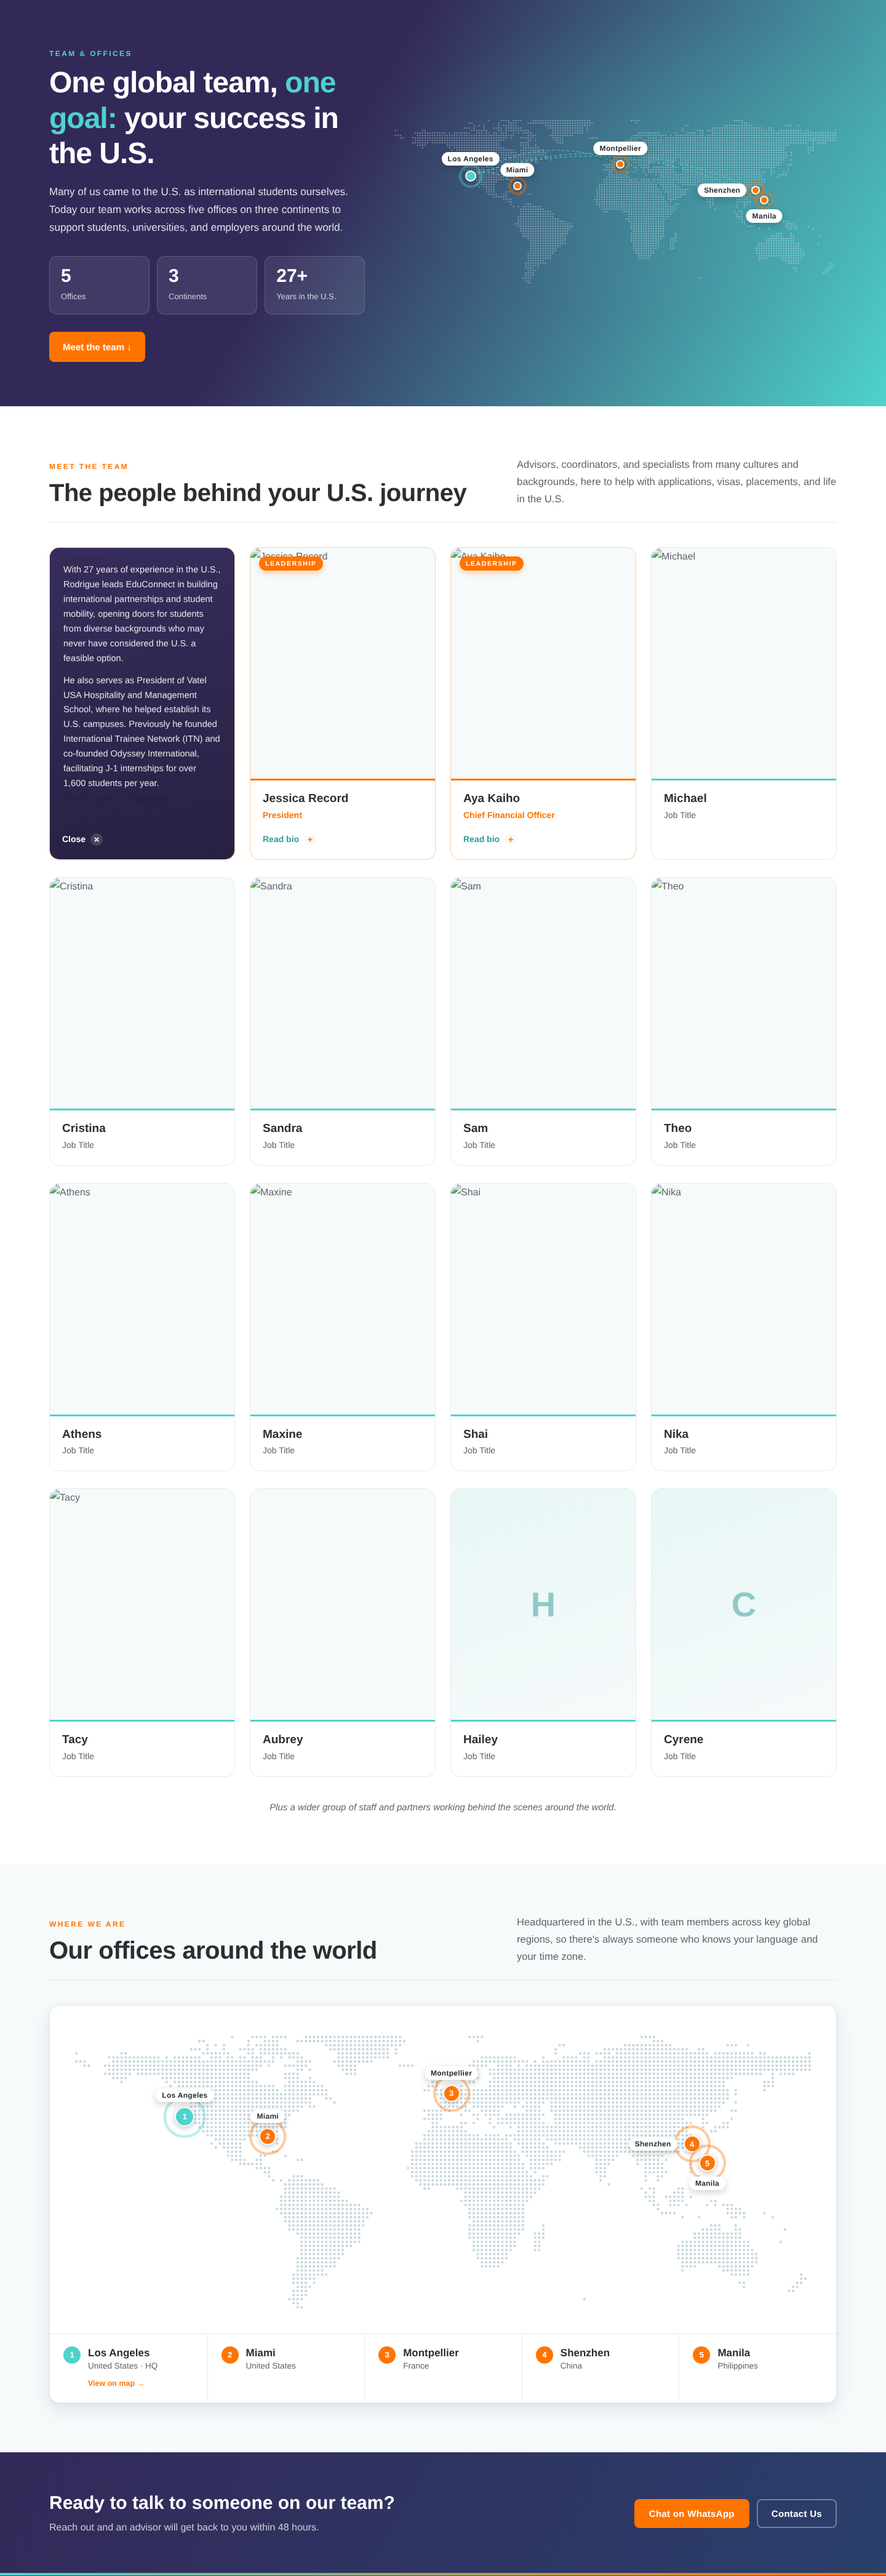
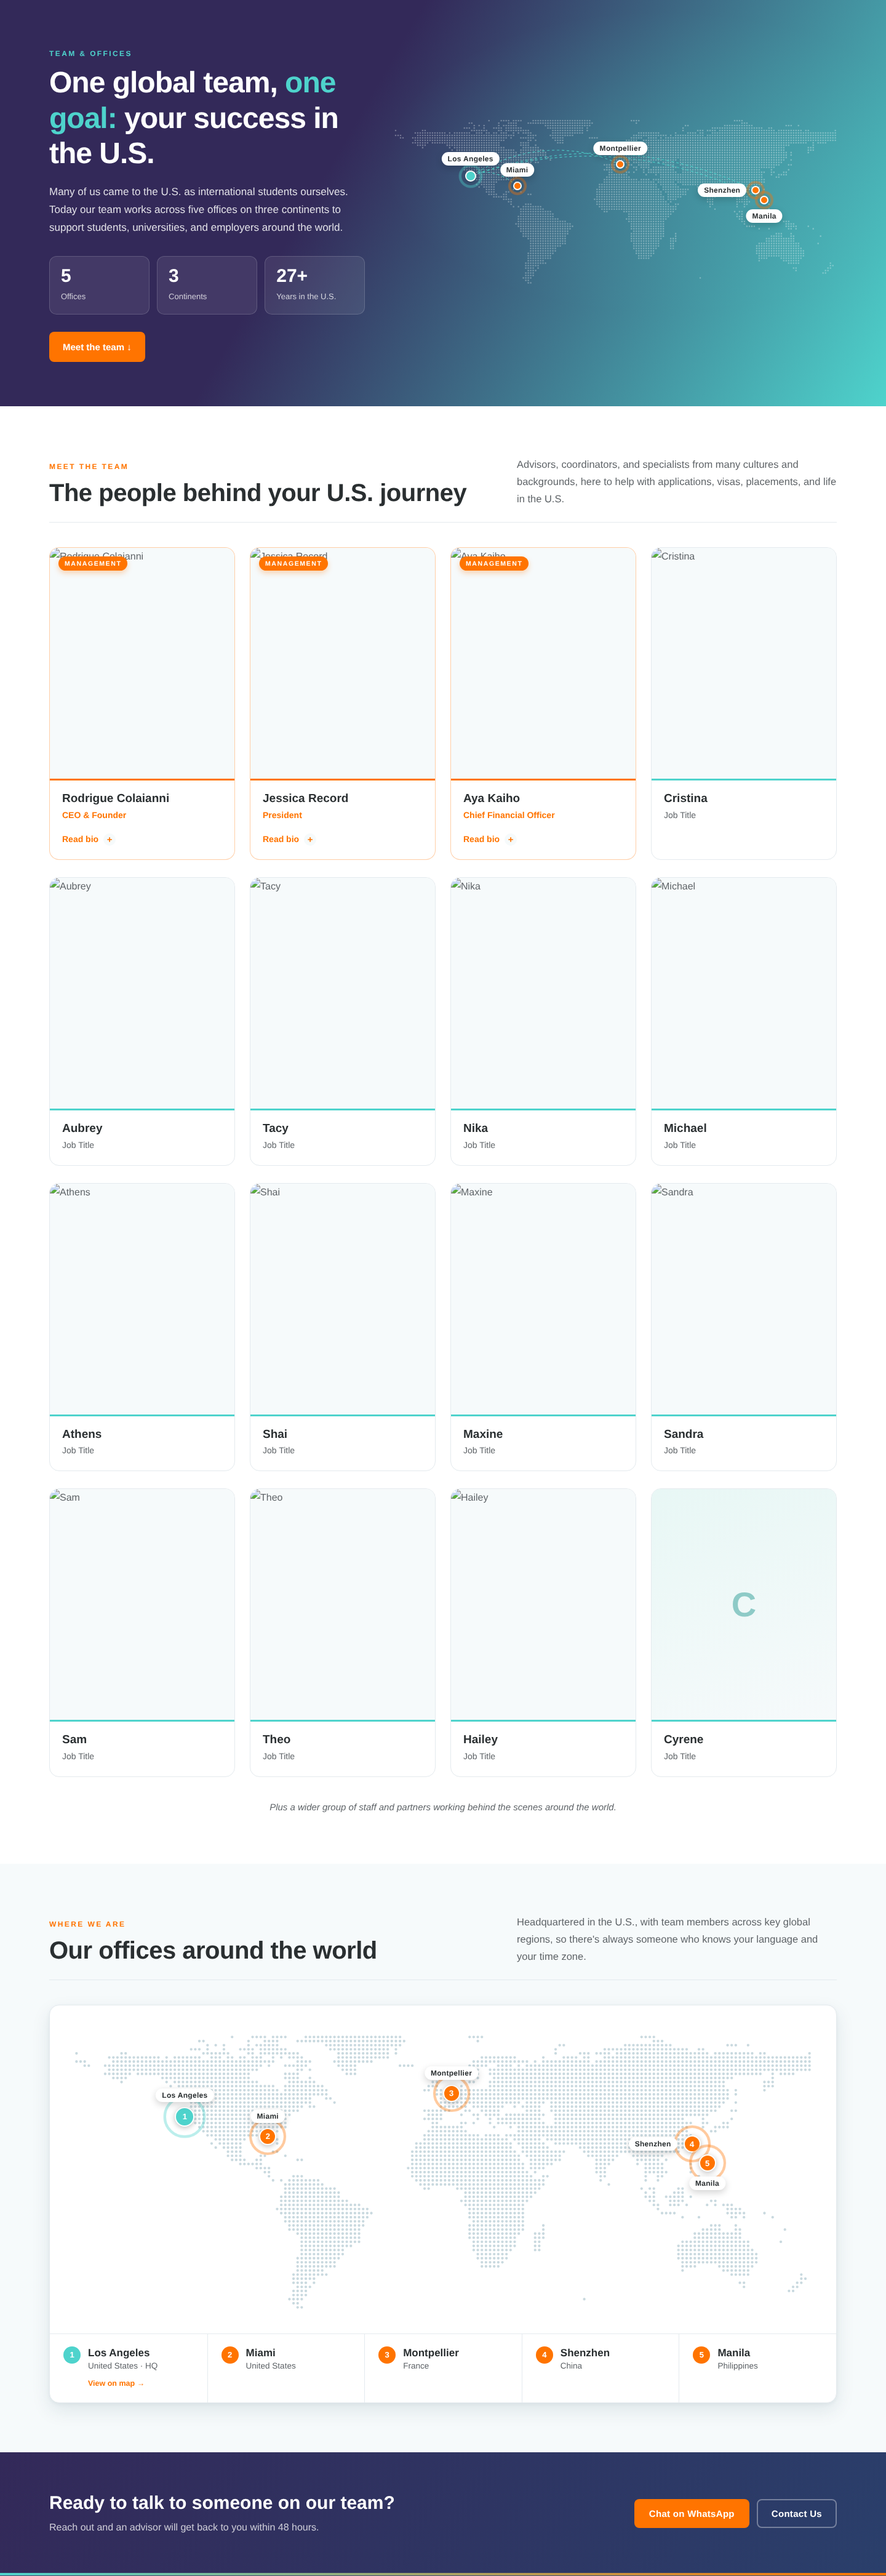
Team page: named photos, new order, Management badge, orange bio button
Claude-Session: https://claude.ai/code/session_01GZPWVdRv6C6DeJS94qZjdM

Changed region(s): [[0.0312, 0.1864, 0.2812, 0.3417], [0.75, 0.4349, 0.7812, 0.4659], [0.5938, 0.6213, 0.625, 0.6523]]

diff --git a/about-team/team-page.html b/about-team/team-page.html
@@ -9,7 +9,7 @@
 
      TO EDIT
        • Job titles: search for  EDIT TITLE  and replace "Job Title".
-       • Hailey & Cyrene photos: search for  ADD PHOTO  and swap the
+       • Cyrene photo: search for  ADD PHOTO  and swap the
          initials block for the <img> line shown in the comment.
        • Add a person: copy one <li class="ect-card"> block.
 ============================================================ -->
@@ -80,11 +80,10 @@
 
       <ul class="ect-grid">
 
-        <!-- ---------- Leadership (badge + bio) ---------- -->
         <li class="ect-card ect-card--lead">
           <div class="ect-card__photo">
-            <img loading="lazy" decoding="async" width="600" height="750" src="https://educonnectusa.com/wp-content/uploads/2026/10/2.jpg" alt="Rodrigue Colaianni" />
-            <span class="ect-badge">Leadership</span>
+            <img loading="lazy" decoding="async" width="600" height="750" src="https://educonnectusa.com/wp-content/uploads/2026/10/Rodrigue.jpg" alt="Rodrigue Colaianni" />
+            <span class="ect-badge">Management</span>
           </div>
           <div class="ect-card__body">
             <h3 class="ect-card__name">Rodrigue Colaianni</h3>
@@ -98,11 +97,10 @@
             </details>
           </div>
         </li>
-
         <li class="ect-card ect-card--lead">
           <div class="ect-card__photo">
-            <img loading="lazy" decoding="async" width="600" height="750" src="https://educonnectusa.com/wp-content/uploads/2026/10/1.jpg" alt="Jessica Record" />
-            <span class="ect-badge">Leadership</span>
+            <img loading="lazy" decoding="async" width="600" height="750" src="https://educonnectusa.com/wp-content/uploads/2026/10/Jessica.jpg" alt="Jessica Record" />
+            <span class="ect-badge">Management</span>
           </div>
           <div class="ect-card__body">
             <h3 class="ect-card__name">Jessica Record</h3>
@@ -116,11 +114,10 @@
             </details>
           </div>
         </li>
-
         <li class="ect-card ect-card--lead">
           <div class="ect-card__photo">
-            <img loading="lazy" decoding="async" width="600" height="750" src="https://educonnectusa.com/wp-content/uploads/2026/10/3.jpg" alt="Aya Kaiho" />
-            <span class="ect-badge">Leadership</span>
+            <img loading="lazy" decoding="async" width="600" height="750" src="https://educonnectusa.com/wp-content/uploads/2026/10/Aya.jpg" alt="Aya Kaiho" />
+            <span class="ect-badge">Management</span>
           </div>
           <div class="ect-card__body">
             <h3 class="ect-card__name">Aya Kaiho</h3>
@@ -134,89 +131,85 @@
             </details>
           </div>
         </li>
-
-        <!-- ---------- Team ---------- -->
         <li class="ect-card">
-          <div class="ect-card__photo"><img loading="lazy" decoding="async" width="600" height="750" src="https://educonnectusa.com/wp-content/uploads/2026/10/4.jpg" alt="Michael" /></div>
-          <div class="ect-card__body">
-            <h3 class="ect-card__name">Michael</h3>
-            <p class="ect-card__role">Job Title<!-- EDIT TITLE --></p>
-          </div>
-        </li>
-        <li class="ect-card">
-          <div class="ect-card__photo"><img loading="lazy" decoding="async" width="600" height="750" src="https://educonnectusa.com/wp-content/uploads/2026/10/5.jpg" alt="Cristina" /></div>
+          <div class="ect-card__photo"><img loading="lazy" decoding="async" width="600" height="750" src="https://educonnectusa.com/wp-content/uploads/2026/10/Cristina.jpg" alt="Cristina" /></div>
           <div class="ect-card__body">
             <h3 class="ect-card__name">Cristina</h3>
             <p class="ect-card__role">Job Title<!-- EDIT TITLE --></p>
           </div>
         </li>
         <li class="ect-card">
-          <div class="ect-card__photo"><img loading="lazy" decoding="async" width="600" height="750" src="https://educonnectusa.com/wp-content/uploads/2026/10/6.jpg" alt="Sandra" /></div>
-          <div class="ect-card__body">
-            <h3 class="ect-card__name">Sandra</h3>
-            <p class="ect-card__role">Job Title<!-- EDIT TITLE --></p>
-          </div>
-        </li>
-        <li class="ect-card">
-          <div class="ect-card__photo"><img loading="lazy" decoding="async" width="600" height="750" src="https://educonnectusa.com/wp-content/uploads/2026/10/7.jpg" alt="Sam" /></div>
-          <div class="ect-card__body">
-            <h3 class="ect-card__name">Sam</h3>
-            <p class="ect-card__role">Job Title<!-- EDIT TITLE --></p>
-          </div>
-        </li>
-        <li class="ect-card">
-          <div class="ect-card__photo"><img loading="lazy" decoding="async" width="600" height="750" src="https://educonnectusa.com/wp-content/uploads/2026/10/8.jpg" alt="Theo" /></div>
-          <div class="ect-card__body">
-            <h3 class="ect-card__name">Theo</h3>
-            <p class="ect-card__role">Job Title<!-- EDIT TITLE --></p>
-          </div>
-        </li>
-        <li class="ect-card">
-          <div class="ect-card__photo"><img loading="lazy" decoding="async" width="600" height="750" src="https://educonnectusa.com/wp-content/uploads/2026/10/9.jpg" alt="Athens" /></div>
-          <div class="ect-card__body">
-            <h3 class="ect-card__name">Athens</h3>
-            <p class="ect-card__role">Job Title<!-- EDIT TITLE --></p>
-          </div>
-        </li>
-        <li class="ect-card">
-          <div class="ect-card__photo"><img loading="lazy" decoding="async" width="600" height="750" src="https://educonnectusa.com/wp-content/uploads/2026/10/10.jpg" alt="Maxine" /></div>
-          <div class="ect-card__body">
-            <h3 class="ect-card__name">Maxine</h3>
-            <p class="ect-card__role">Job Title<!-- EDIT TITLE --></p>
-          </div>
-        </li>
-        <li class="ect-card">
-          <div class="ect-card__photo"><img loading="lazy" decoding="async" width="600" height="750" src="https://educonnectusa.com/wp-content/uploads/2026/10/11.jpg" alt="Shai" /></div>
-          <div class="ect-card__body">
-            <h3 class="ect-card__name">Shai</h3>
-            <p class="ect-card__role">Job Title<!-- EDIT TITLE --></p>
-          </div>
-        </li>
-        <li class="ect-card">
-          <div class="ect-card__photo"><img loading="lazy" decoding="async" width="600" height="750" src="https://educonnectusa.com/wp-content/uploads/2026/10/12.jpg" alt="Nika" /></div>
-          <div class="ect-card__body">
-            <h3 class="ect-card__name">Nika</h3>
-            <p class="ect-card__role">Job Title<!-- EDIT TITLE --></p>
-          </div>
-        </li>
-        <li class="ect-card">
-          <div class="ect-card__photo"><img loading="lazy" decoding="async" width="600" height="750" src="https://educonnectusa.com/wp-content/uploads/2026/10/13.jpg" alt="Tacy" /></div>
-          <div class="ect-card__body">
-            <h3 class="ect-card__name">Tacy</h3>
-            <p class="ect-card__role">Job Title<!-- EDIT TITLE --></p>
-          </div>
-        </li>
-        <li class="ect-card">
-          <div class="ect-card__photo"><img loading="lazy" decoding="async" width="600" height="750" src="https://educonnectusa.com/wp-content/uploads/2026/10/14.jpg" alt="Aubrey" /></div>
+          <div class="ect-card__photo"><img loading="lazy" decoding="async" width="600" height="750" src="https://educonnectusa.com/wp-content/uploads/2026/10/Aubrey.jpg" alt="Aubrey" /></div>
           <div class="ect-card__body">
             <h3 class="ect-card__name">Aubrey</h3>
             <p class="ect-card__role">Job Title<!-- EDIT TITLE --></p>
           </div>
         </li>
         <li class="ect-card">
-          <!-- ADD PHOTO: replace the next line with
-          <div class="ect-card__photo"><img loading="lazy" decoding="async" width="600" height="750" src="PHOTO-URL" alt="Hailey" /></div> -->
-          <div class="ect-card__photo ect-card__photo--pending"><span>H</span></div>
+          <div class="ect-card__photo"><img loading="lazy" decoding="async" width="600" height="750" src="https://educonnectusa.com/wp-content/uploads/2026/10/Tacy.jpg" alt="Tacy" /></div>
+          <div class="ect-card__body">
+            <h3 class="ect-card__name">Tacy</h3>
+            <p class="ect-card__role">Job Title<!-- EDIT TITLE --></p>
+          </div>
+        </li>
+        <li class="ect-card">
+          <div class="ect-card__photo"><img loading="lazy" decoding="async" width="600" height="750" src="https://educonnectusa.com/wp-content/uploads/2026/10/Nika.jpg" alt="Nika" /></div>
+          <div class="ect-card__body">
+            <h3 class="ect-card__name">Nika</h3>
+            <p class="ect-card__role">Job Title<!-- EDIT TITLE --></p>
+          </div>
+        </li>
+        <li class="ect-card">
+          <div class="ect-card__photo"><img loading="lazy" decoding="async" width="600" height="750" src="https://educonnectusa.com/wp-content/uploads/2026/10/Michael.jpg" alt="Michael" /></div>
+          <div class="ect-card__body">
+            <h3 class="ect-card__name">Michael</h3>
+            <p class="ect-card__role">Job Title<!-- EDIT TITLE --></p>
+          </div>
+        </li>
+        <li class="ect-card">
+          <div class="ect-card__photo"><img loading="lazy" decoding="async" width="600" height="750" src="https://educonnectusa.com/wp-content/uploads/2026/10/Athens.jpg" alt="Athens" /></div>
+          <div class="ect-card__body">
+            <h3 class="ect-card__name">Athens</h3>
+            <p class="ect-card__role">Job Title<!-- EDIT TITLE --></p>
+          </div>
+        </li>
+        <li class="ect-card">
+          <div class="ect-card__photo"><img loading="lazy" decoding="async" width="600" height="750" src="https://educonnectusa.com/wp-content/uploads/2026/10/Shai.jpg" alt="Shai" /></div>
+          <div class="ect-card__body">
+            <h3 class="ect-card__name">Shai</h3>
+            <p class="ect-card__role">Job Title<!-- EDIT TITLE --></p>
+          </div>
+        </li>
+        <li class="ect-card">
+          <div class="ect-card__photo"><img loading="lazy" decoding="async" width="600" height="750" src="https://educonnectusa.com/wp-content/uploads/2026/10/Maxine.jpg" alt="Maxine" /></div>
+          <div class="ect-card__body">
+            <h3 class="ect-card__name">Maxine</h3>
+            <p class="ect-card__role">Job Title<!-- EDIT TITLE --></p>
+          </div>
+        </li>
+        <li class="ect-card">
+          <div class="ect-card__photo"><img loading="lazy" decoding="async" width="600" height="750" src="https://educonnectusa.com/wp-content/uploads/2026/10/Sandra.jpg" alt="Sandra" /></div>
+          <div class="ect-card__body">
+            <h3 class="ect-card__name">Sandra</h3>
+            <p class="ect-card__role">Job Title<!-- EDIT TITLE --></p>
+          </div>
+        </li>
+        <li class="ect-card">
+          <div class="ect-card__photo"><img loading="lazy" decoding="async" width="600" height="750" src="https://educonnectusa.com/wp-content/uploads/2026/10/Sam.jpg" alt="Sam" /></div>
+          <div class="ect-card__body">
+            <h3 class="ect-card__name">Sam</h3>
+            <p class="ect-card__role">Job Title<!-- EDIT TITLE --></p>
+          </div>
+        </li>
+        <li class="ect-card">
+          <div class="ect-card__photo"><img loading="lazy" decoding="async" width="600" height="750" src="https://educonnectusa.com/wp-content/uploads/2026/10/Theo.jpg" alt="Theo" /></div>
+          <div class="ect-card__body">
+            <h3 class="ect-card__name">Theo</h3>
+            <p class="ect-card__role">Job Title<!-- EDIT TITLE --></p>
+          </div>
+        </li>
+        <li class="ect-card">
+          <div class="ect-card__photo"><img loading="lazy" decoding="async" width="600" height="750" src="https://educonnectusa.com/wp-content/uploads/2026/10/Hailey.jpg" alt="Hailey" /></div>
           <div class="ect-card__body">
             <h3 class="ect-card__name">Hailey</h3>
             <p class="ect-card__role">Job Title<!-- EDIT TITLE --></p>
@@ -463,14 +456,14 @@
 .ect-bio summary{
   position:relative;z-index:3;cursor:pointer;list-style:none;
   display:inline-flex;align-items:center;gap:8px;
-  font-weight:700;font-size:14px;color:var(--ect-teal-dark);
+  font-weight:700;font-size:14px;color:#ff7400;
 }
 .ect-bio summary::-webkit-details-marker{display:none}
 .ect-bio summary::after{
   content:"+";display:grid;place-items:center;width:20px;height:20px;border-radius:50%;
   background:var(--ect-soft);color:var(--ect-orange);font-size:15px;line-height:1;
 }
-.ect-bio summary:hover{color:var(--ect-orange)}
+.ect-bio summary:hover{color:var(--ect-orange-hov)}
 .ect-bio__close{display:none}
 .ect-bio[open] .ect-bio__open{display:none}
 .ect-bio[open] .ect-bio__close{display:inline}
@@ -566,7 +559,7 @@
   .ect-badge{top:10px;left:10px;font-size:9px;padding:5px 8px}
   /* phones: bio opens inline instead of covering the card */
   .ect-bio__panel{position:static;margin-top:10px;padding:12px;border-radius:8px;background:var(--ect-soft);color:var(--ect-body);font-size:13px}
-  .ect-bio[open] summary{color:var(--ect-teal-dark)}
+  .ect-bio[open] summary{color:#ff7400}
   .ect-bio[open] summary::after{background:var(--ect-soft);color:var(--ect-orange)}
   /* small screens: shrink pins, labels only for the numbered map */
   .ect-pin i{width:10px;height:10px;border-width:1.5px}
